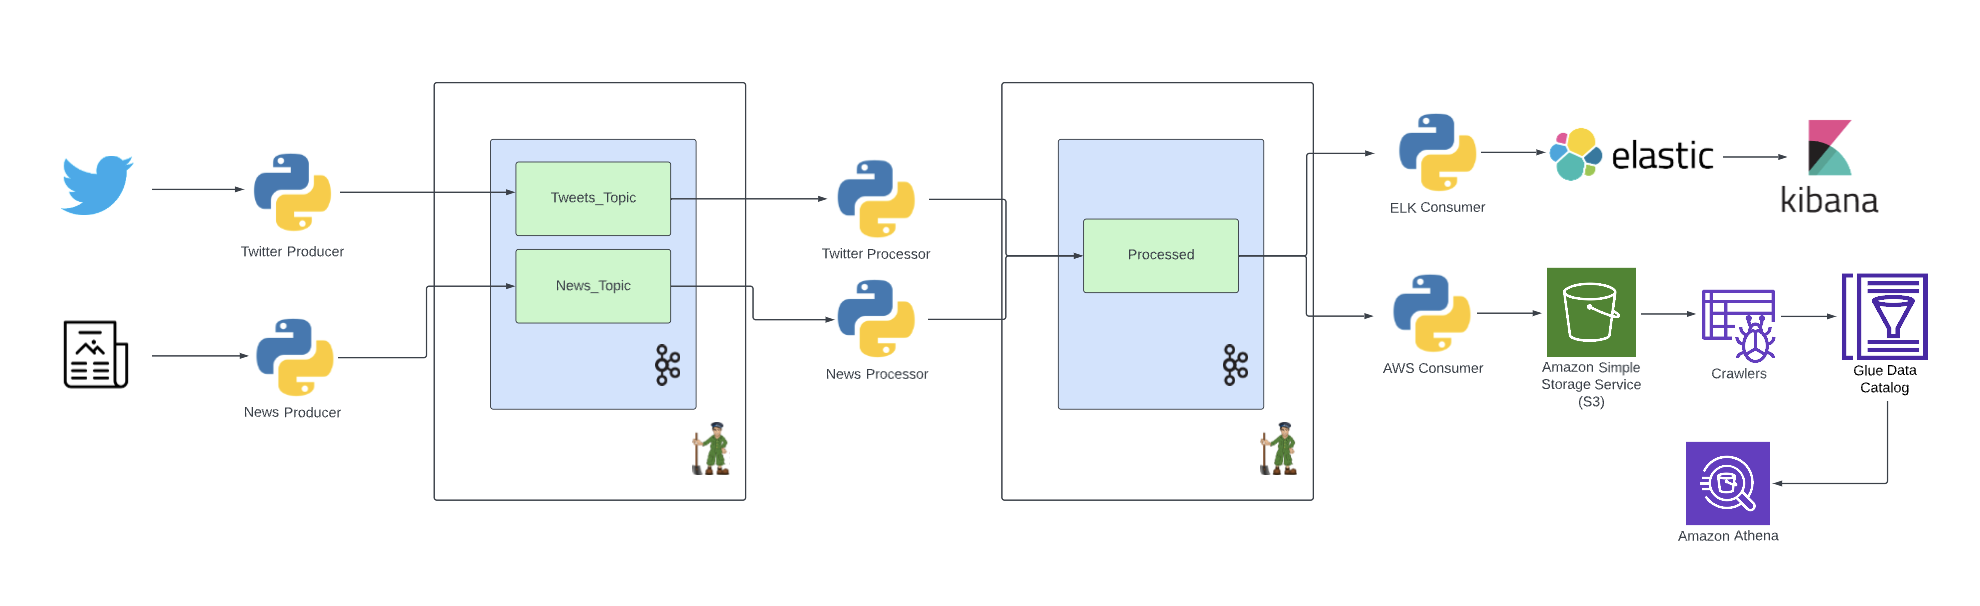
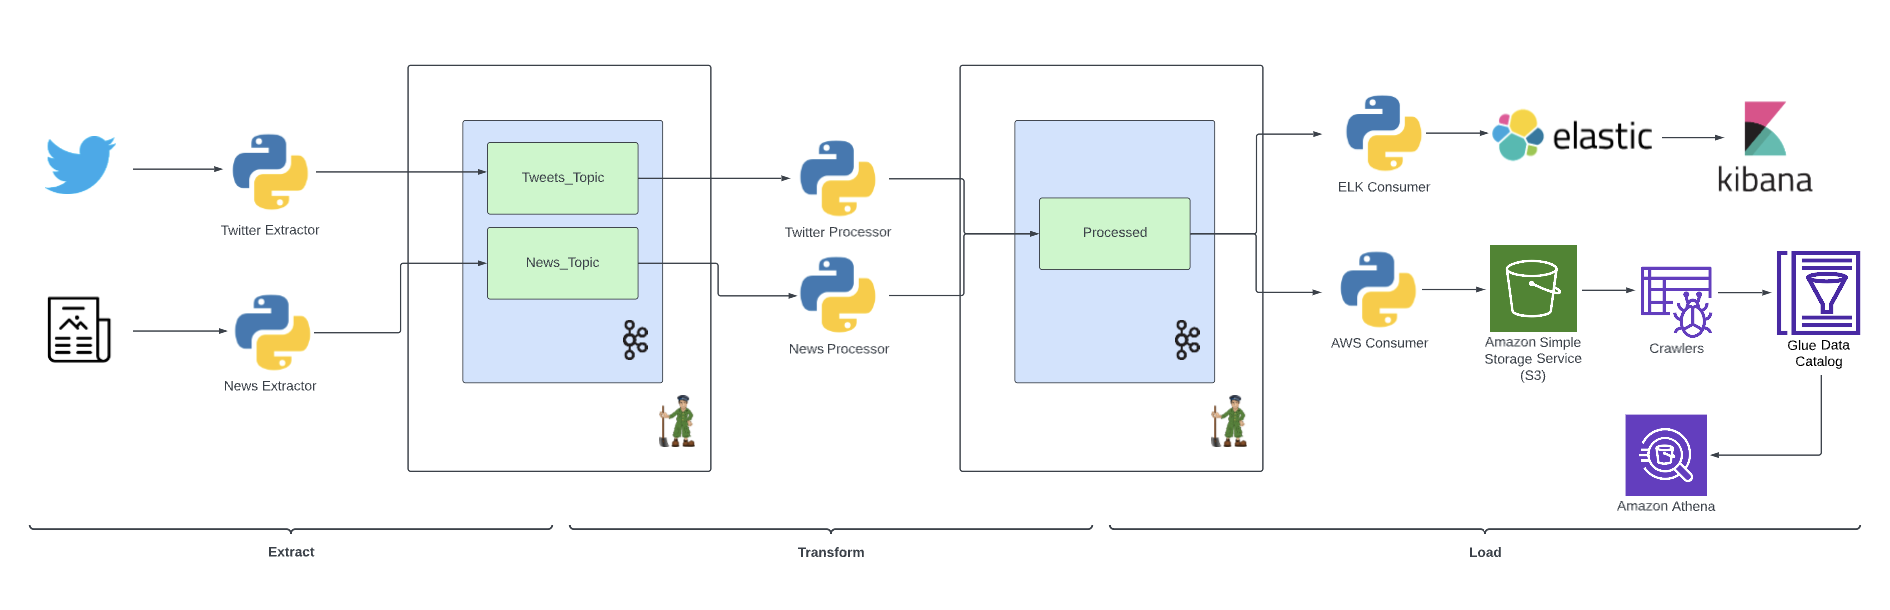
fix(README.md): replaced new architecture diagram

diff --git a/README.md b/README.md
@@ -1,4 +1,4 @@
-# Tweets and news analysis using Python Kafka AWS and ELK Stack
+# ETL Pipeline for Tweets and News using Python, Kafka, AWS and ELK Stack
 
 ## Architecture of the application
 
